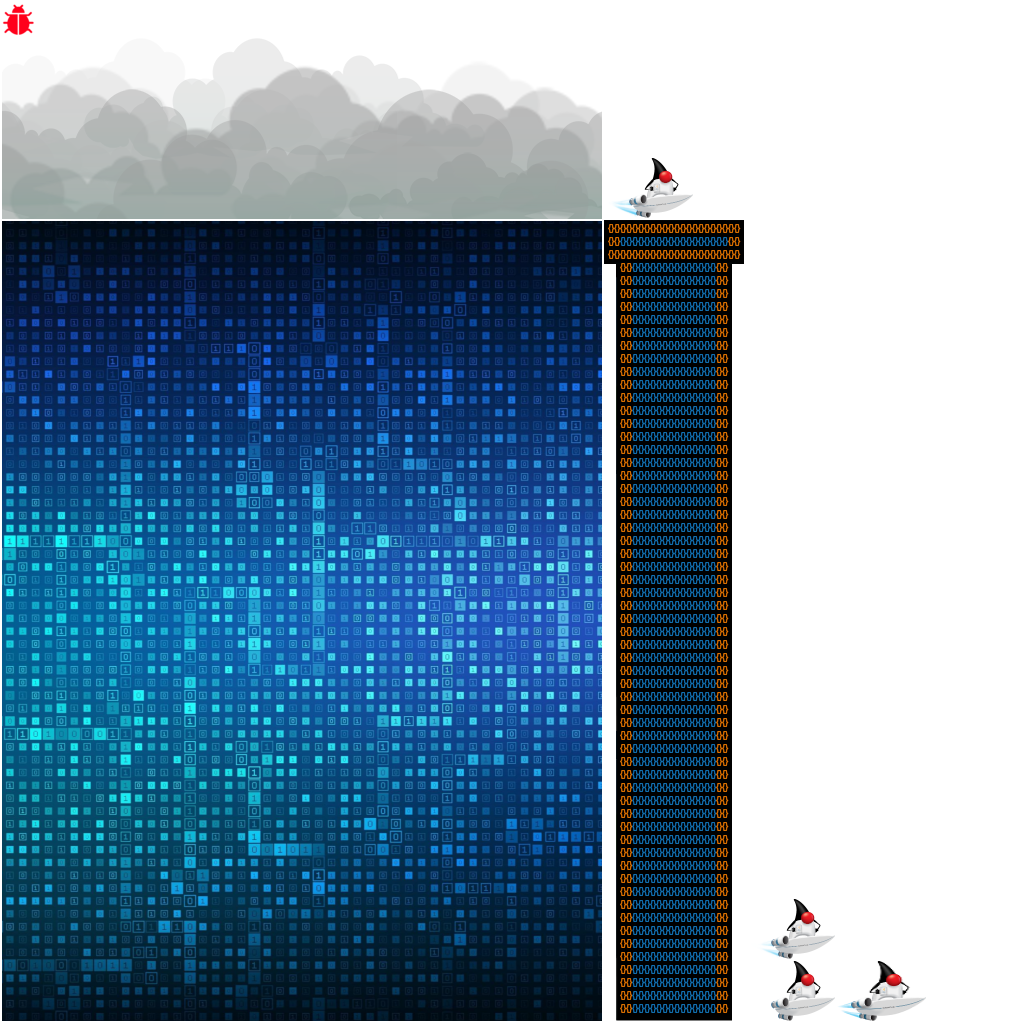
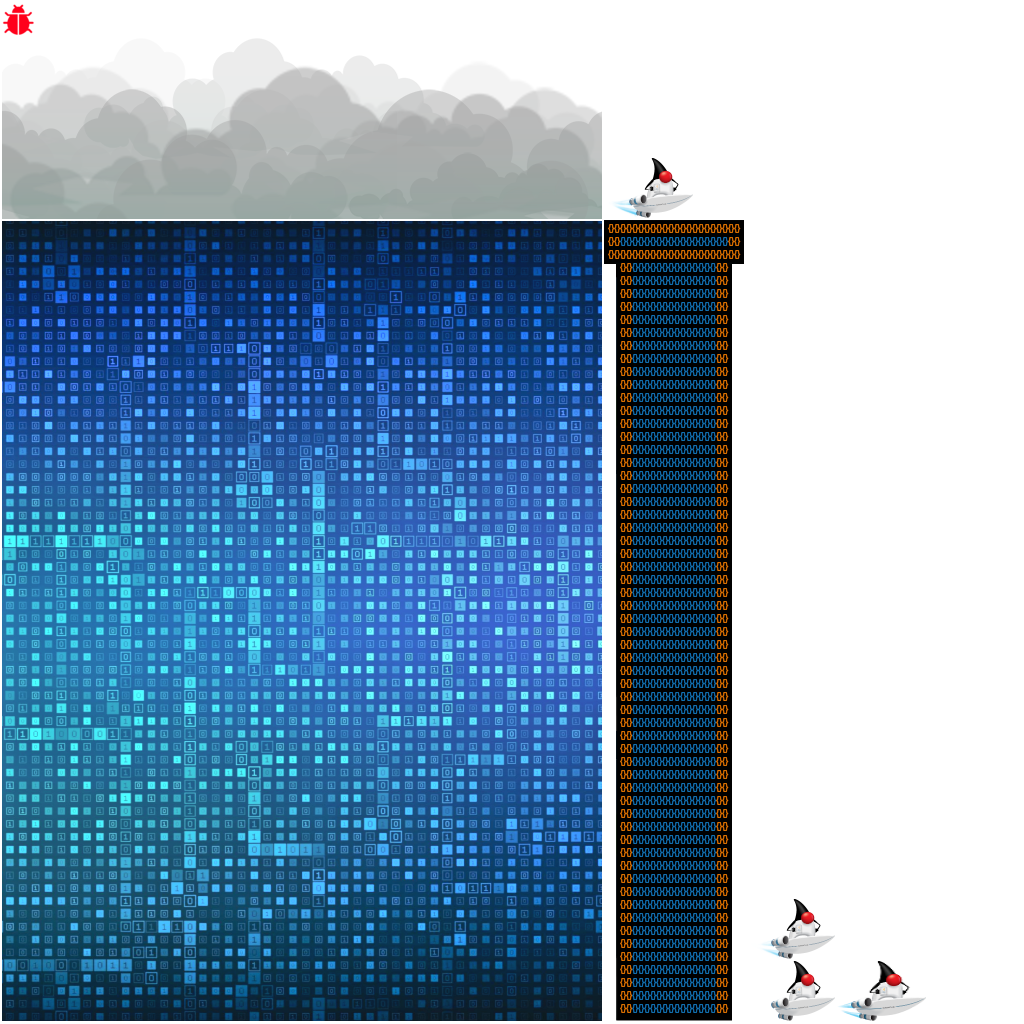
Made a mode graphics blendning

diff --git a/core/src/main/se/yrgo/jumpyduke/screens/PlayScreen.java b/core/src/main/se/yrgo/jumpyduke/screens/PlayScreen.java
@@ -14,11 +14,7 @@ import com.badlogic.gdx.utils.ScreenUtils;
 import com.badlogic.gdx.utils.viewport.StretchViewport;
 import se.yrgo.jumpyduke.DukeGame;
 import se.yrgo.jumpyduke.DukeState;
-import se.yrgo.jumpyduke.actors.Bug;
-import se.yrgo.jumpyduke.actors.CloudLower;
-import se.yrgo.jumpyduke.actors.Duke;
-import se.yrgo.jumpyduke.actors.Pipe;
-import se.yrgo.jumpyduke.actors.PipeDuoManager;
+import se.yrgo.jumpyduke.actors.*;
 import se.yrgo.jumpyduke.assets.Assets;
 import se.yrgo.jumpyduke.config.Configurations;
 import se.yrgo.jumpyduke.utils.ScoreDataManager;
@@ -35,6 +31,7 @@ public class PlayScreen extends ScreenAdapter {
 
     private Stage guiStage;
     private Stage playStage;
+    private Background backgroundActor;
 
     private OrthographicCamera cam;
     private CloudLower cloudLower;
@@ -53,9 +50,10 @@ public class PlayScreen extends ScreenAdapter {
     private Player player;
     private int score;
 
-    public PlayScreen(DukeGame dukeGame, Player player) {
+    public PlayScreen(DukeGame dukeGame, Player player, Background backgroundActor) {
         this.dukeGame = dukeGame;
         this.player = player;
+        this.backgroundActor = backgroundActor;
         score = 0;
         player.setLastScore(0);
         player.incrementRounds();
@@ -130,7 +128,7 @@ public class PlayScreen extends ScreenAdapter {
     }
 
     private void addActors() {
-        playStage.addActor(new Image(Assets.background));
+        playStage.addActor(backgroundActor);
         playStage.addActor(duke);
         addPipeActors();
         playStage.addActor(playerNameLabel);
@@ -178,7 +176,8 @@ public class PlayScreen extends ScreenAdapter {
 
     @Override
     public void render(float deltaTime) {
-        ScreenUtils.clear(1, 0, 0, 1);
+        ScreenUtils.clear(0, 0, 0, 1);
+
 
         collisionWithPipe();
         collisionWithBug();

diff --git a/core/src/main/se/yrgo/jumpyduke/actors/Background.java b/core/src/main/se/yrgo/jumpyduke/actors/Background.java
@@ -1,10 +1,17 @@
 package se.yrgo.jumpyduke.actors;
 
+import com.badlogic.gdx.graphics.GL20;
 import com.badlogic.gdx.graphics.g2d.Batch;
 import com.badlogic.gdx.graphics.g2d.TextureRegion;
 import com.badlogic.gdx.scenes.scene2d.Actor;
 import se.yrgo.jumpyduke.assets.Assets;
+import se.yrgo.jumpyduke.screens.MenuScreen;
 import se.yrgo.jumpyduke.utils.GameModeState;
+
+import java.awt.*;
+
+import static se.yrgo.jumpyduke.assets.Assets.batch;
+import static se.yrgo.jumpyduke.utils.GameUtils.logger;
 
 public class Background extends Actor {
     private TextureRegion backgroundRegion;
@@ -40,9 +47,20 @@ public class Background extends Actor {
 
     @Override
     public void draw(Batch batch, float parentAlpha) {
-        batch.draw(backgroundRegion, getX(), getY());
+       // batch.isBlendingEnabled();
+        //
+        //if (MenuScreen.currentGameMode == GameModeState.HARD)
+         //batch.setBlendFunction(GL20.GL_DST_ALPHA, GL20.GL_BLEND_SRC_RGB);
+            // batch.setColor(255,255,255,0.88f);
+
+          batch.draw(backgroundRegion, getX(), getY());
+
+
     }
 
+    public TextureRegion getBackgroundRegion() {
+        return backgroundRegion;
+    }
 
     public void setTexture(GameModeState currentGameMode) {
         switch (currentGameMode){
@@ -50,7 +68,7 @@ public class Background extends Actor {
                 backgroundRegion.setRegion(Assets.hardBackground);
                 break;
             case EASY:
-               // backgroundRegion.setRegion(Assets.easyBackground);
+               backgroundRegion.setRegion(Assets.easyBackground);
                 break;
             default:
                 backgroundRegion.setRegion(Assets.background);

diff --git a/core/src/main/se/yrgo/jumpyduke/screens/MenuScreen.java b/core/src/main/se/yrgo/jumpyduke/screens/MenuScreen.java
@@ -24,6 +24,7 @@ import java.util.Comparator;
 import java.util.stream.Collectors;
 
 import static se.yrgo.jumpyduke.DukeGame.menuScreenTextInputListener;
+import static se.yrgo.jumpyduke.assets.Assets.batch;
 import static se.yrgo.jumpyduke.utils.GameUtils.logger;
 
 public class MenuScreen extends ScreenAdapter {
@@ -186,6 +187,7 @@ public class MenuScreen extends ScreenAdapter {
     private void changeGameModeGraphics() {
         backgroundActor.setTexture(currentGameMode);
 
+
     }
 
     private void inputlistener(DukeGame dukeGame) {
@@ -194,7 +196,7 @@ public class MenuScreen extends ScreenAdapter {
             @Override
             public boolean keyDown(int keycode) {
                 if (keycode == Input.Keys.SPACE) {
-                    playScreen = new PlayScreen(dukeGame, player);
+                    playScreen = new PlayScreen(dukeGame, player,backgroundActor);
                     MenuScreen.this.dukeGame.setScreen(playScreen);
                 }
                 if (keycode == Input.Keys.NUM_1) {
@@ -224,7 +226,8 @@ public class MenuScreen extends ScreenAdapter {
 
     @Override
     public void render(float deltaTime) {
-        ScreenUtils.clear(1, 0, 0, 1);
+        ScreenUtils.clear(0, 0, 0, 0);
+
         menuStage.act();
         guiStage.act();
         menuStage.draw();

diff --git a/core/src/main/se/yrgo/jumpyduke/assets/Assets.java b/core/src/main/se/yrgo/jumpyduke/assets/Assets.java
@@ -19,6 +19,7 @@ import static se.yrgo.jumpyduke.utils.GameUtils.logger;
 public class Assets {
     public static TextureAtlas textureAtlas;
     public static TextureRegion background;
+    public static TextureRegion easyBackground;
     public static TextureRegion hardBackground;
     public static TextureRegion duke;
     public static TextureRegion cloudLower;
@@ -43,8 +44,9 @@ public class Assets {
 
     public static void loadAssets() {
         textureAtlas = new TextureAtlas("pack.atlas");
-        background = textureAtlas.findRegion("Background_scale_600x800");
-        hardBackground = textureAtlas.findRegion("bg_hard");
+        background = textureAtlas.findRegion("Background_NORMAL");
+        easyBackground = textureAtlas.findRegion("Background_EASY");
+        hardBackground = textureAtlas.findRegion("Background_HARD");
         duke = textureAtlas.findRegion("Duke_scale_76x60");
         bug = textureAtlas.findRegion("Bug");
         pipe = textureAtlas.findRegion("Pipe_bottom_new_140x801");

diff --git a/core/src/main/se/yrgo/jumpyduke/actors/Pipe.java b/core/src/main/se/yrgo/jumpyduke/actors/Pipe.java
@@ -10,6 +10,8 @@ import se.yrgo.jumpyduke.DukeState;
 import se.yrgo.jumpyduke.assets.Assets;
 import se.yrgo.jumpyduke.config.Configurations;
 
+import static se.yrgo.jumpyduke.assets.Assets.batch;
+
 public class Pipe extends Actor {
     private TextureRegion pipeRegion;
     private Vector2 pipeVelocity;
@@ -38,6 +40,7 @@ public class Pipe extends Actor {
 
     @Override
     public void draw(Batch batch, float parentAlpha) {
+
         batch.draw(pipeRegion, getX(), getY(), getOriginX(), getOriginY(),
                 getWidth(), getHeight(), getScaleX(), getScaleY(), getRotation());
     }
